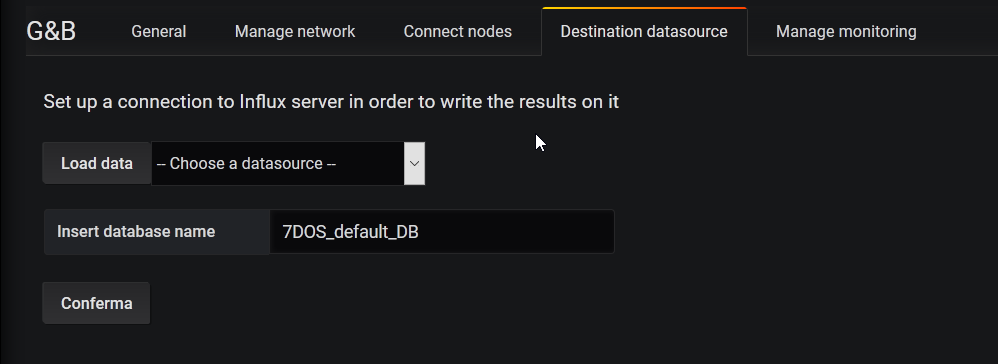
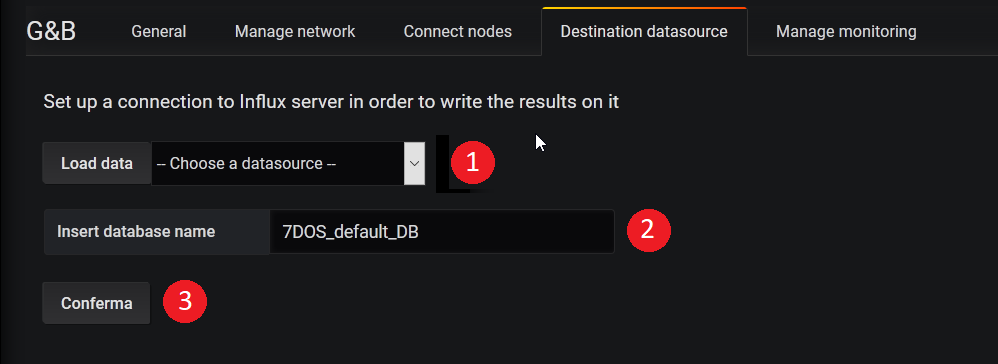
[MU] Sezione configurazione scrittura

Changed region(s): [[0.4349, 0.3626, 0.497, 0.544], [0.1553, 0.7555, 0.2174, 0.9066], [0.6212, 0.5742, 0.6834, 0.6951]]

diff --git a/ManualeUtente/Res/Sezioni/Utilizzo/ConfigurazioneScritturaRete.tex b/ManualeUtente/Res/Sezioni/Utilizzo/ConfigurazioneScritturaRete.tex
@@ -1,0 +1,14 @@
+\subsubsection{Configurazione scrittura del ricalcolo della rete}
+\begin{figure} [H]
+	\centering
+	\includegraphics[scale=0.55]{Img/setds} 
+	\caption{Tab di configurazione scrittura del ricalcolo della rete} \label{} 
+\end{figure} 
+La configurazione dei parametri di scrittura avviene tramite i seguenti step:
+\begin{itemize}
+	\item Scelta della datasource;
+	\item Indicazione del database di scrittura;
+	\item Conferma dei parametri.
+\end{itemize}
+
+N.B. In caso di mancata selezione di una datasource o di un database, verranno selezionati i parametri di default (cioè il datasource di default indicato all'interno di Grafana e il database "7DOS\_defaultDB").

diff --git a/ManualeUtente/Res/Sezioni/Utilizzo/ConfigurazioneTempoRicalcoloRete.tex b/ManualeUtente/Res/Sezioni/Utilizzo/ConfigurazioneTempoRicalcoloRete.tex
@@ -6,7 +6,7 @@
 \end{figure} 
 Dopo aver scelto la datasource e il database in cui scrivere il risultato del processo di ricalcolo delle probabilità dei nodi della rete, avrete la possibilità di scegliere in che modo effettuare il monitoraggio:
 \begin{itemize}
-	\item Saltuariamente tramite il tasto "Ricalcola";
+	\item Saltuariamente tramite il tasto "\emph{Ricalcola}";
 	\item Costantemente, utilizzando i tasti "\emph{Start}" e "\emph{Stop}" e la cella di testo in cui specificare, in secondi, il timer di refresh. L'iter per il corretto settaggio è il seguente:
 		\begin{enumerate}
 				\item Settare il timer di ricalcolo (in secondi e con un numero >=0);
